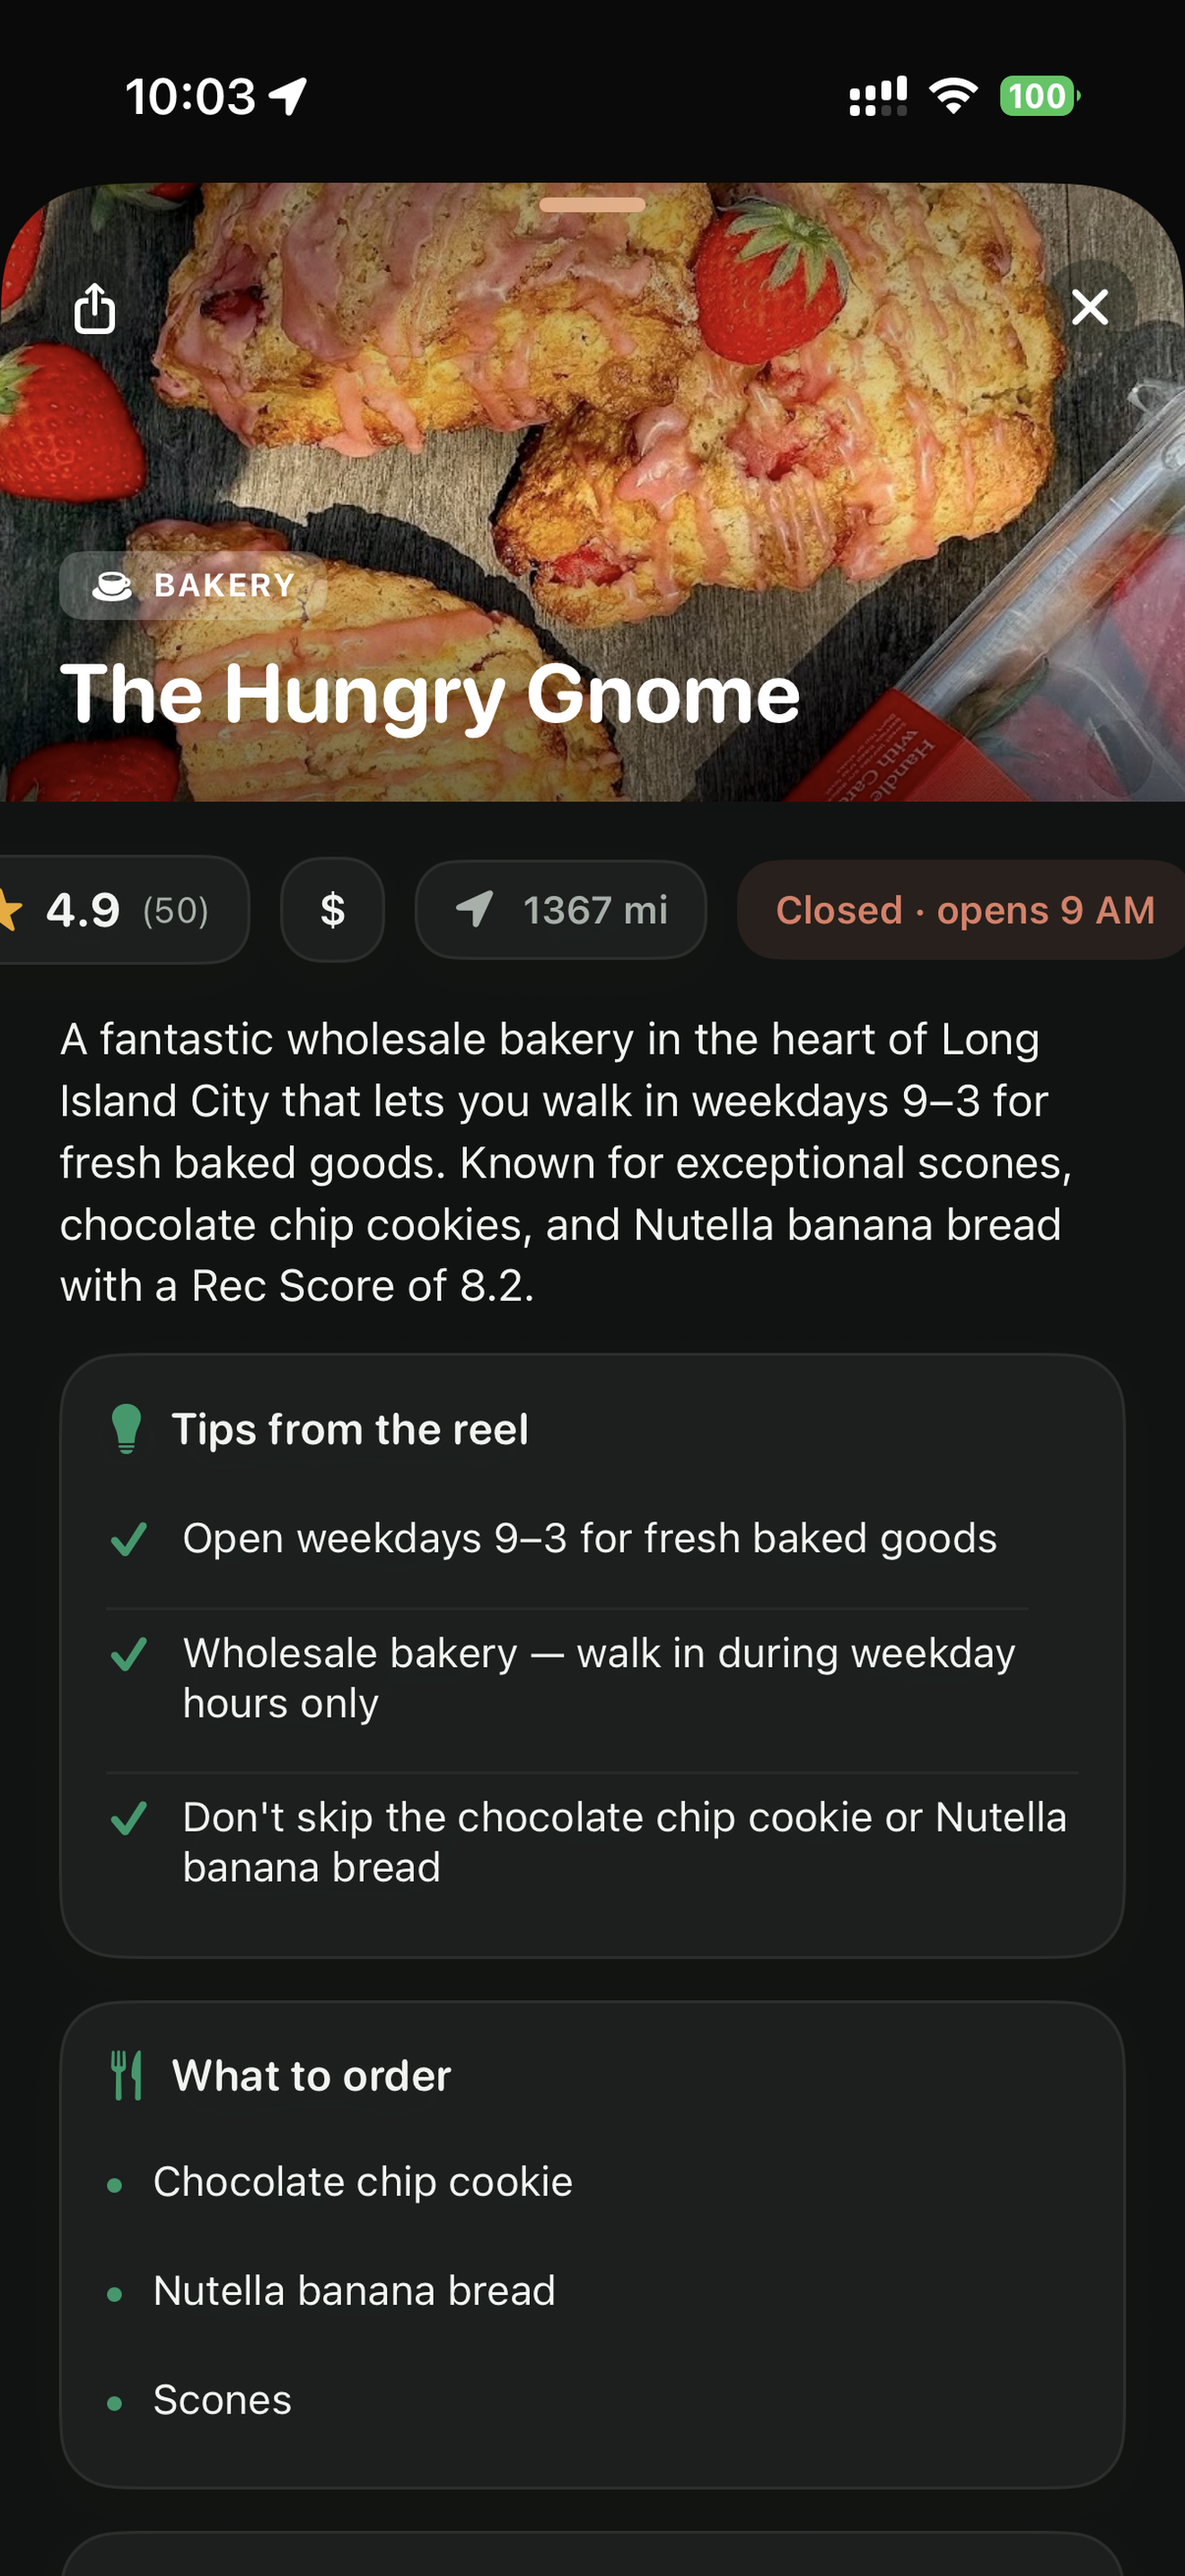
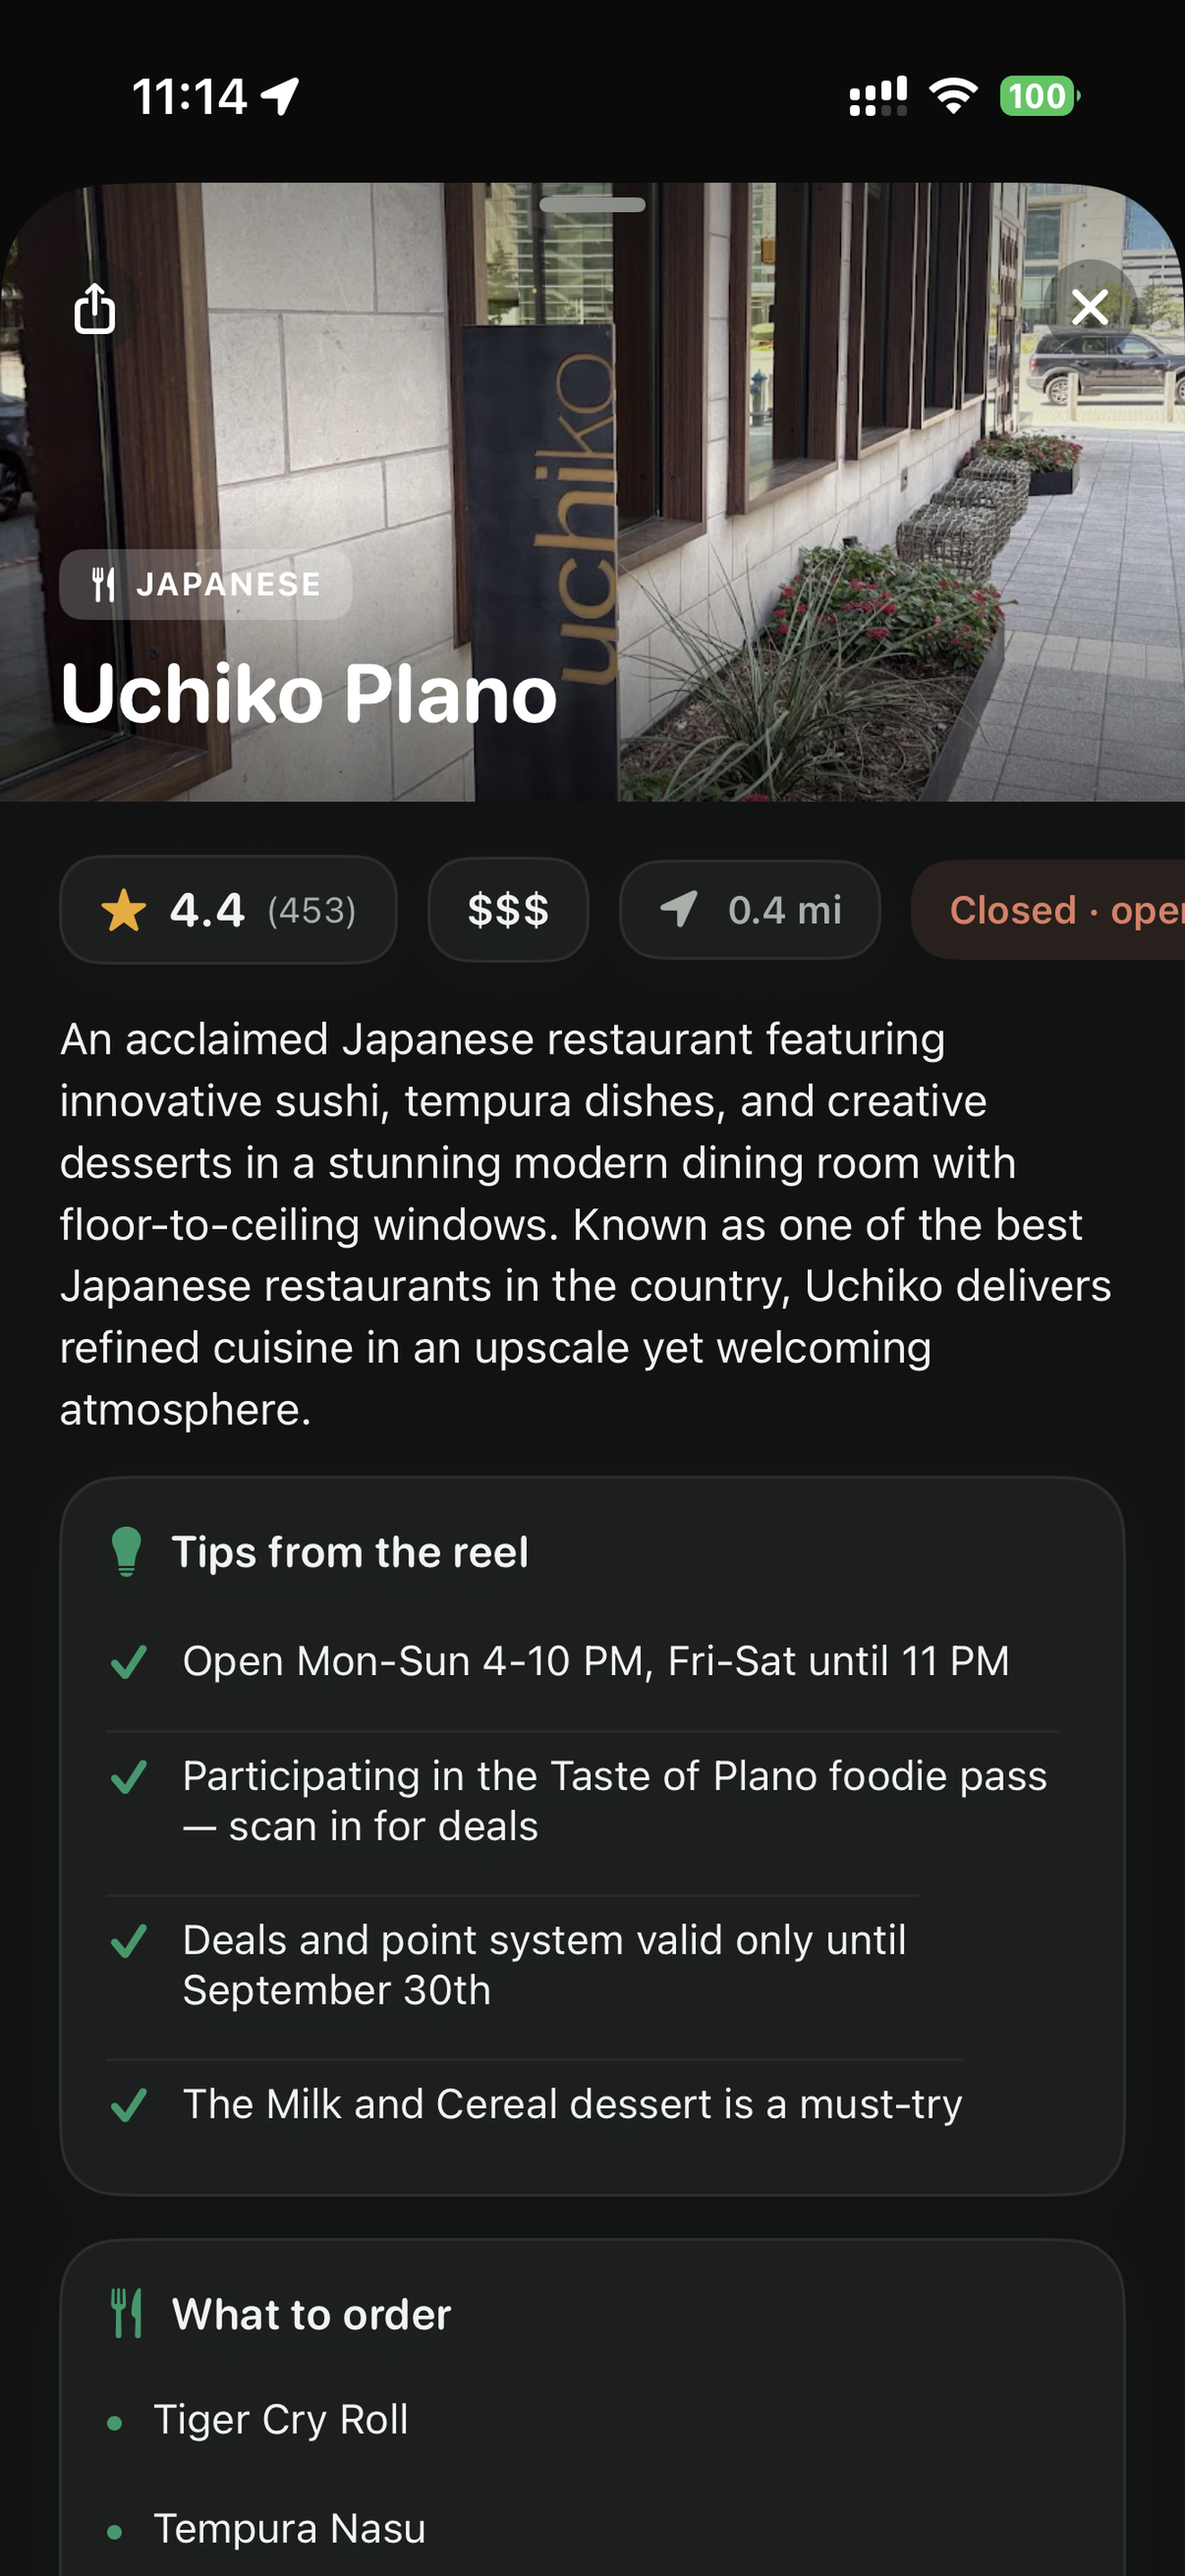
Every screenshot slot filled, and the store set finalised
The shared map goes in with the member name showing, as you decided.

Store set rebuilt from the finals at 1320x2868, ordered as it should be
uploaded. Place detail leads: it is the screen showing Nosh do the thing no
competitor does, pulling tips and dishes out of a reel nobody transcribed.

The share sheet and the confirmation toast are on the website only. Both carry
redaction — a mosaic and a heavy blur — and on a store listing that reads as a
mistake rather than a feature. On the site the surrounding copy explains what
you are looking at.

Nine of nine web slots now have real images. No placeholders left.

Claude-Session: https://claude.ai/code/session_01AWiWsdqoQvkEFoEH2sQqA4

diff --git a/web/public/shots/store/README.md b/web/public/shots/store/README.md
@@ -1,12 +1,19 @@
-# Store-sized screenshots
+# Store screenshots
 
 1320 × 2868 — Apple's 6.9" iPhone class, which App Store Connect requires.
 
 Sources were shot on an iPhone 17 Pro at 1206 × 2622, the 6.3" class, which the
 listing does not accept. Upscaled rather than reshot: the aspect ratios differ
-by 0.065%, so no crop is needed and nothing is distorted. The Simulator was the
-alternative and isn't usable here — Sign in with Apple needs an Apple ID on the
-device, and the places live on the server.
+by 0.065%, so nothing is cropped and nothing is visibly stretched. The Simulator
+was the alternative and isn't usable — Sign in with Apple needs an Apple ID on
+the device, and the places live on the server, so a fresh simulator has an empty
+map.
 
-Suggested listing order is the filename order: place detail leads, because it is
-the screen that shows Nosh doing something no competitor does.
+Upload in filename order. Place detail leads because it is the screen showing
+Nosh do something no competitor does: tips and what to order, pulled out of a
+reel nobody transcribed by hand.
+
+Deliberately not here: the Instagram share sheet and the share confirmation
+toast. Both live on the website, where surrounding copy explains them. On a
+store listing a redacted or blurred screenshot reads as a mistake rather than a
+feature.
